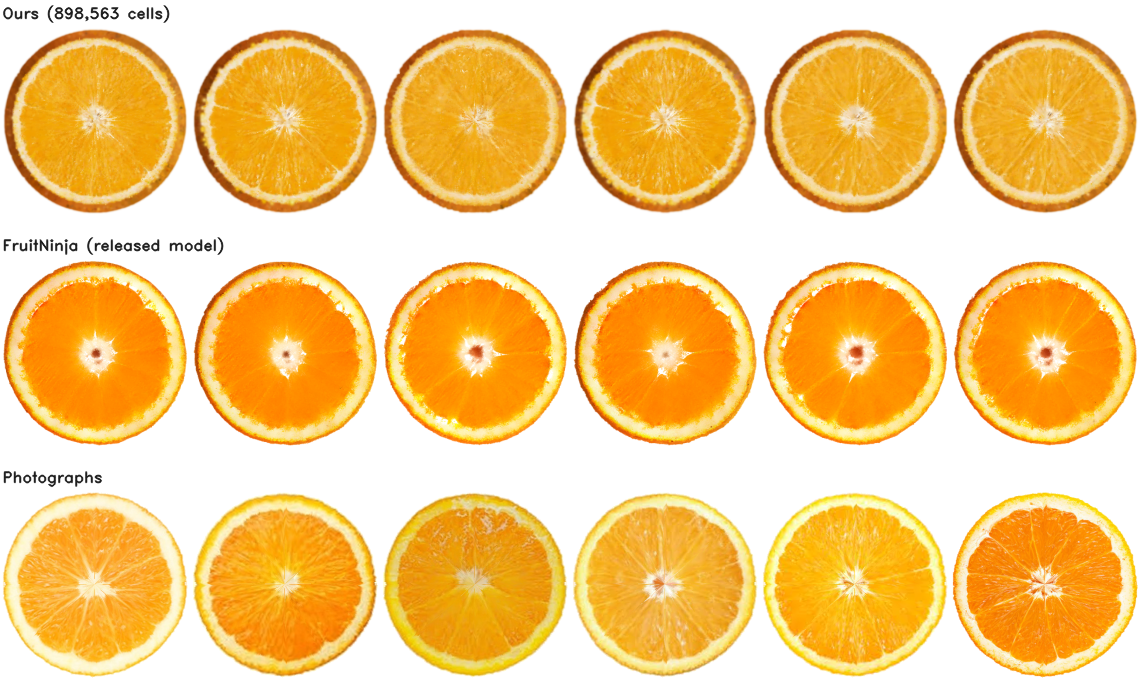
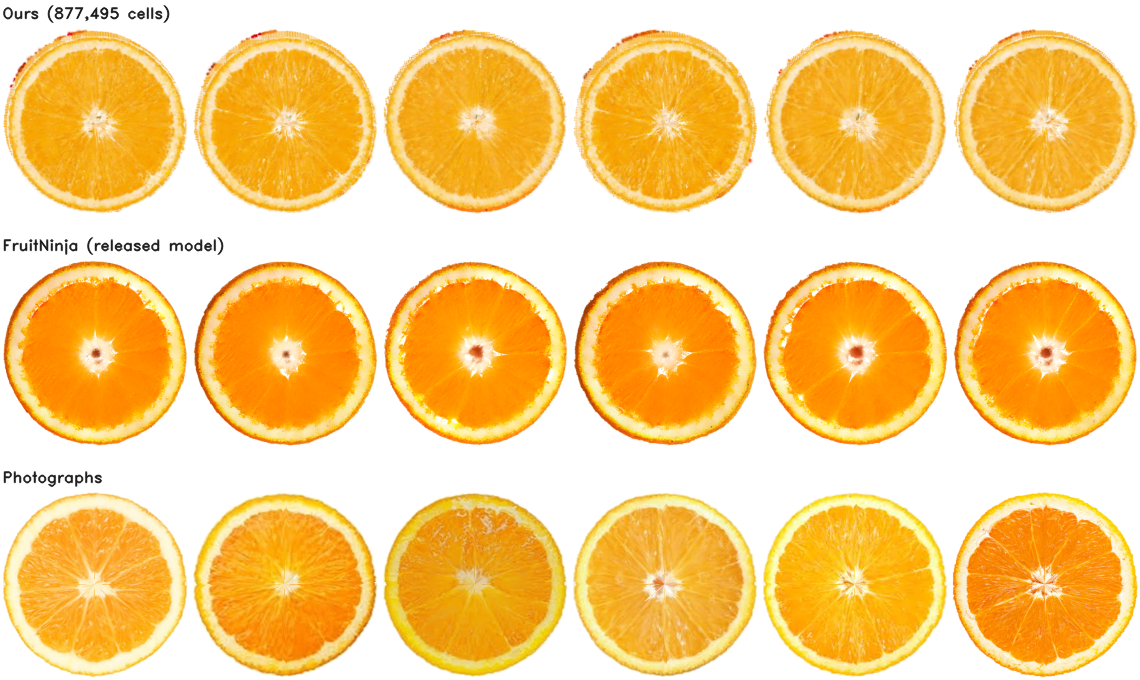
The orange gets the same refinement, and it costs nothing there
Transverse FID 83.3 -> 79.1 against the released model's 102.6, with 877,495
cells against the 898,563 the unrefined lattice used: a coarser interior pays
for the finer skin. On the watermelon the same change cost cells and closed a
43-point gap; here it closes 4 points and costs none.

All three objects are now built with the two-level lattice this page has
described throughout.

Changed region(s): [[0.0, 0.0, 1.0, 0.3397]]

diff --git a/index.html b/index.html
@@ -321,7 +321,7 @@ The representation is an order of magnitude cheaper, tracks the photographs' own
 <div class="tw"><table>
   <thead><tr><th></th><th></th><th>FruitNinja</th><th>Ours</th><th></th></tr></thead>
   <tbody>
-    <tr><td><strong>Cost</strong></td><td>Primitives, orange</td><td>3,928,330</td><td class="win">898,563</td><td>4.4× fewer</td></tr>
+    <tr><td><strong>Cost</strong></td><td>Primitives, orange</td><td>3,928,330</td><td class="win">877,495</td><td>4.4× fewer</td></tr>
     <tr><td></td><td>Parameters, orange</td><td>55.0M</td><td class="win">7.2M</td><td>7.6× fewer</td></tr>
     <tr><td></td><td>Primitives, watermelon</td><td>7,959,789</td><td class="win">1,520,021</td><td>5.2× fewer</td></tr>
     <tr><td></td><td>Parameters, watermelon</td><td>111.4M</td><td class="win">12.2M</td><td>9.1× fewer</td></tr>
@@ -329,7 +329,7 @@ The representation is an order of magnitude cheaper, tracks the photographs' own
     <tr><td></td><td>Section lost to gaps, 2048 px</td><td>29.58%</td><td class="win">0.19%</td><td>156× less</td></tr>
     <tr><td></td><td>Section lost to gaps, 4096 px</td><td>72.69%</td><td class="win">0.23%</td><td>316× less</td></tr>
     <tr><td><strong>Fidelity</strong></td><td>Longitudinal FID, orange</td><td>234.2±22.6</td><td class="win">178.4</td><td></td></tr>
-    <tr><td></td><td>Transverse FID, orange</td><td>102.6</td><td class="win">83.3</td><td></td></tr>
+    <tr><td></td><td>Transverse FID, orange</td><td>102.6</td><td class="win">79.1</td><td></td></tr>
     <tr><td></td><td>Colour, a* against the photographs' 13.4</td><td>23.4</td><td class="win">12.1</td><td></td></tr>
     <tr><td><strong>Speed</strong></td><td>Render time at 2048 px</td><td>17.3 ms</td><td class="win">4.3 ms</td><td>4.0× faster</td></tr>
     <tr><td></td><td>Peak VRAM</td><td>2,174 MB</td><td class="win">819 MB</td><td>2.7× less</td></tr>
@@ -483,7 +483,7 @@ and nothing in the pipeline is told the object has a hole.</figcaption>
   <thead><tr><th>Object</th><th>Method</th><th>FID h ↓</th><th>KID h ↓</th><th>FID v ↓</th><th>KID v ↓</th><th>Cos ↑</th></tr></thead>
   <tbody>
     <tr><td>Orange</td><td>FruitNinja</td><td>102.6</td><td>165.9</td><td>234.2±22.6</td><td>316.4±42.5</td><td>0.986</td></tr>
-    <tr><td></td><td>Ours</td><td class="win">83.3</td><td class="win">122.1</td><td class="win">178.4</td><td class="win">213.7</td><td class="win">0.993</td></tr>
+    <tr><td></td><td>Ours</td><td class="win">79.1</td><td class="win">114.0</td><td class="win">178.4</td><td class="win">213.7</td><td class="win">0.993</td></tr>
     <tr><td>Watermelon</td><td>FruitNinja</td><td>190.0</td><td class="win">225.4</td><td>244.6±14.9</td><td class="win">291.1±31.8</td><td>0.975</td></tr>
     <tr><td></td><td>Ours</td><td class="win">195.5</td><td>236.7</td><td class="win">235.1±5.0</td><td>304.6±14.0</td><td class="win">0.979</td></tr>
   </tbody></table></div>
@@ -491,7 +491,7 @@ and nothing in the pipeline is told the object has a hole.</figcaption>
 cut planes, measured after a correction to the loader described below; longitudinal figures carry
 their earlier five-draw mean and spread, and a draw moves FID by ±2 to ±23.</p>
 <p>
-On the orange the lattice leads on both orientations — transverse FID 83.3 against 102.6, longitudinal
+On the orange the lattice leads on both orientations — transverse FID 79.1 against 102.6, longitudinal
 178.4 against 234.2 — and on cross-view consistency, 0.993 against 0.986. On the watermelon the
 two are level: transverse FID 195.5 against 190.0 and KID 236.7 against 225.4, both inside the ±28 to
 ±34 that a draw of the cutting planes moves them. Longitudinally the order is ours, 235.1 against
@@ -505,8 +505,11 @@ every one of them left the transverse FID between 238 and 266. The defect was ge
 cuts the curved skin obliquely, so it needs enough shell cells to fill that rim, and the lattice the
 watermelon was published with had none of the two-level refinement this page describes — its coarse
 and fine spacings were equal. Refining the skin to half the interior spacing, which is what the
-method always said it did, took the transverse FID from 238.6 to 195.5. It costs cells: 1,520,021
-rather than 826,599, so the advantage over the released model narrows from 9.6× to 5.2×.
+method always said it did, took the watermelon's transverse FID from 238.6 to 195.5 and the
+orange's from 83.3 to 79.1. On the watermelon it costs cells — 1,520,021 rather than 826,599, so
+the advantage over the released model narrows from 9.6× to 5.2× — and on the orange it costs
+none: 877,495 against the 898,563 the unrefined lattice used, because a coarser interior pays for
+the finer skin. All three objects are now built the way this page describes them.
 </p>
 <p style="color:var(--mut);font-size:14px">
 <strong>A correction to how these were measured.</strong> The loader used for every offline evaluation
